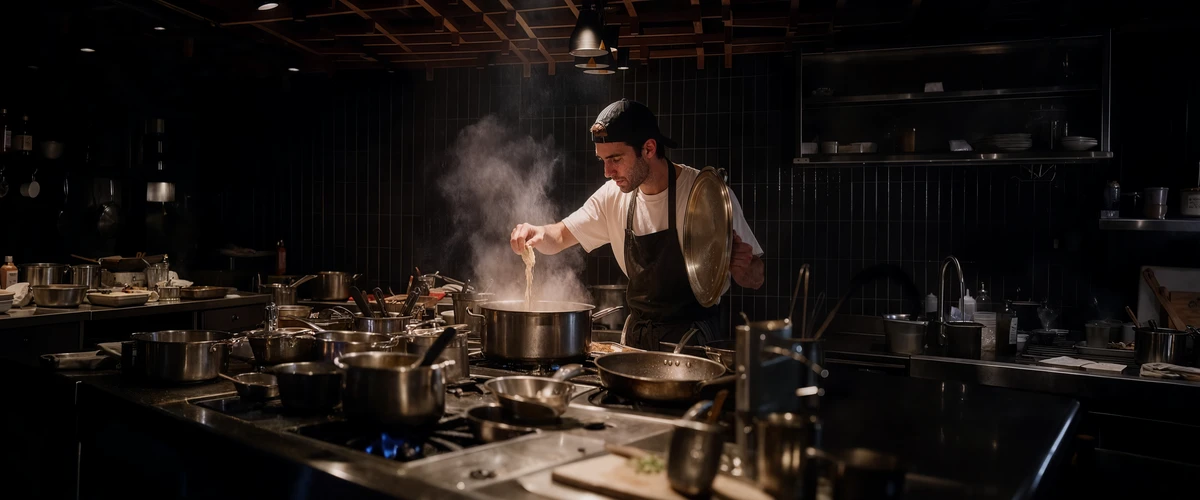
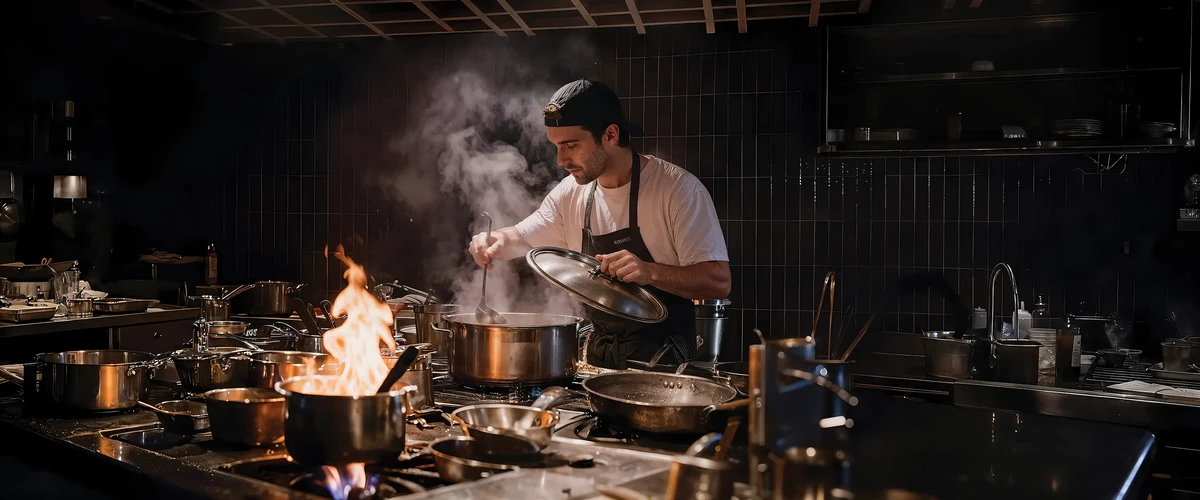
Replace hero photo with Squad-Chef-Large-RGB.webp across all breakpoints
Same art-directed-crop approach as before: one master photo (chef
lifting a lid off a steaming pot beside an open flame), three crops
matching each breakpoint's box (1920x1080 desktop, 1200x500 tablet
banner, 900x1600 mobile portrait centred on the chef+flame). Kept the
existing filenames so no CSS/markup changes were needed — just
replaced the file contents. Updated BRAND.md.

diff --git a/BRAND.md b/BRAND.md
@@ -61,7 +61,7 @@ Nine icons representing Squad's offerings, saved as-is from the desktop into [`p
 
 # Photography
 
-Hero photo, source `Squad-Chef-2.png` (chef in a dark restaurant kitchen, lifting steaming noodles from a pot) — cropped per breakpoint from the same source image so the same photo is consistent across all three:
+Hero photo, source `Squad-Chef-Large-RGB.webp` (chef in a dark restaurant kitchen, lifting a lid off a steaming pot beside an open flame, replaced 2026-09-22) — cropped per breakpoint from the same source image so the same photo is consistent across all three:
 
 - [`public/images/squad-image_Chef.webp`](public/images/squad-image_Chef.webp) — desktop, 1920×1080 (16:9)
 - [`public/images/hero-tablet.webp`](public/images/hero-tablet.webp) — tablet, 1200×500 (banner)
